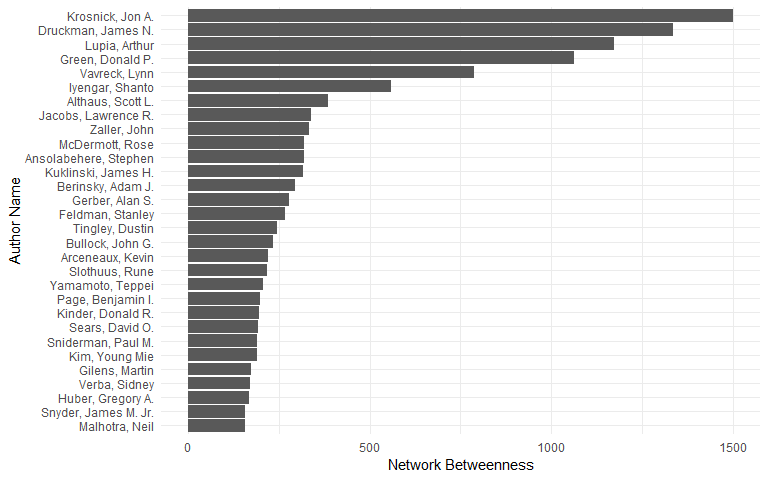
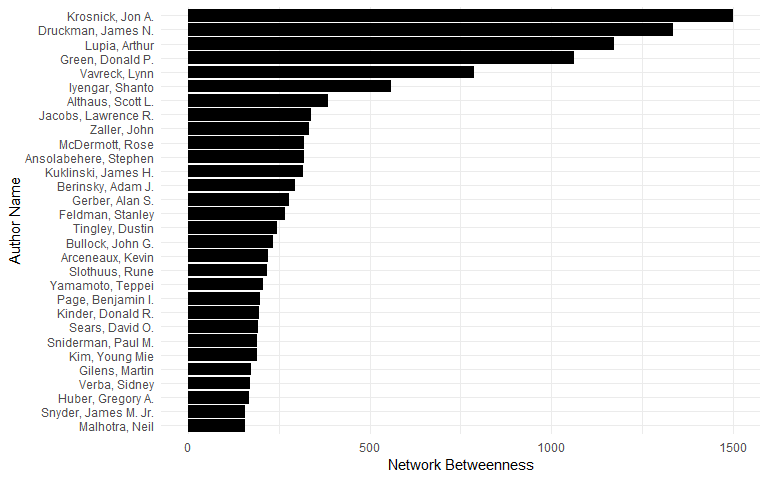
update README

Changed region(s): [[0.2188, 0.0, 0.9688, 0.9062]]

diff --git a/README.md b/README.md
@@ -1,12 +1,20 @@
 ``` r
+# knitr
 library("knitr")
+opts_chunk$set(fig.width=8, fig.height=5)
+
+# ggplot
 library("ggplot2")
+theme_set(theme_minimal())
+update_geom_defaults("bar", list(fill = "black"))
+update_geom_defaults("line", list(colour = "red"))
+update_geom_defaults("line", list(fill = "black", colour = "black"))
+
+# other packages
 requireNamespace("bib2df", quietly = TRUE)
 requireNamespace("igraph", quietly = TRUE)
 requireNamespace("gender", quietly = TRUE)
 requireNamespace("ggraph", quietly = TRUE)
-theme_set(theme_minimal())
-opts_chunk$set(fig.width=8, fig.height=5)
 ```
 
 License: Public Domain (CC-0)
@@ -84,13 +92,13 @@ ggplot(toppublishers, aes(x = PUBLISHER, y = CATEGORY)) +
 Authors
 -------
 
-Number of coauthors per publication:
+Number of coauthors per publication (excluding some recent extreme outliers):
 
 ``` r
 dat$nauthors <- lengths(dat$AUTHOR)
-ggplot(dat[!is.na(dat$YEAR) & dat$YEAR > 1900, ], aes(x = YEAR, y = nauthors)) + 
-  geom_point() + 
-  geom_smooth(method = "gam") + 
+ggplot(dat[!is.na(dat$YEAR) & dat$YEAR > 1900 & dat$nauthors < 40, ], aes(x = YEAR, y = nauthors)) + 
+  geom_point(alpha=0.1, fill="black", colour="black") + 
+  geom_smooth(method = "gam", colour = "red") + 
   xlab("Publication Year") + 
   ylab("Coauthors per Publication")
 ```
@@ -112,6 +120,29 @@ ggplot(topaut[1:50, ], aes(x = aut, y = Freq)) +
 
 ![](README_files/figure-markdown_github/authors-1.png)
 
+Gender of authors:
+
+``` r
+author_vec <- unique(as.character(unlist(dat$AUTHOR)))
+first_names <- regmatches(
+  author_vec,
+  regexec("(?<=, )[A-Za-z]+(?=[. ]{1})", author_vec, perl = TRUE)
+)
+g <- gender::gender(unlist(first_names))[, "gender", drop = FALSE]
+ggplot(g, aes(x = "", fill = gender)) +
+  geom_bar(aes(y = (..count..)/sum(..count..)), width = 1, position = "dodge") + 
+  scale_fill_manual(limits = c("male", "female"), values = c("gray", "black")) +
+  scale_y_continuous(breaks = seq(0,1,by=0.1), labels = scales::percent) +
+  coord_flip() +
+  xlab("") +
+  ylab("") +
+  theme(legend.position = "bottom")
+```
+
+![](README_files/figure-markdown_github/authorgender-1.png)
+
+Caveat: The above is based upon [the gender package](https://cran.r-project.org/package=gender), which classifies first names based upon historical data. This is not necessarily accurate and is restricted to a binary classification. It also uses all historical data provided in the package and is based only on United States data, making it possibly inaccurate for any given individual in the dataset.
+
 Coauthorship
 ------------
 
@@ -127,12 +158,6 @@ codat$N <- 1L
 topco <- aggregate(N ~ X1 + X2, data = codat[codat$X1 %in% topaut$aut & codat$X2 %in% topaut$aut, ], FUN = sum)
 cograph <- igraph::graph_from_data_frame(topco, directed = FALSE)
 
-## d3
-#networkD3::simpleNetwork(topco)
-#d3 <- networkD3::igraph_to_networkD3(cograph)
-#d3$nodes$group <- 1L
-#networkD3::forceNetwork(Links = d3$links, Nodes = d3$nodes, NodeID = "name", Group = "group")
-
 ## ggraph
 ggraph::ggraph(cograph, "igraph", algorithm = "nicely") + 
   ggraph::geom_edge_link(aes(edge_width = log(N)), colour = "gray") + 
@@ -141,6 +166,15 @@ ggraph::ggraph(cograph, "igraph", algorithm = "nicely") +
 ```
 
 ![](README_files/figure-markdown_github/authornetwork-1.png)
+
+Another, more interactive way of doing this might be:
+
+``` r
+networkD3::simpleNetwork(topco)
+d3 <- networkD3::igraph_to_networkD3(cograph)
+d3$nodes$group <- 1L
+networkD3::forceNetwork(Links = d3$links, Nodes = d3$nodes, NodeID = "name", Group = "group")
+```
 
 Betweenness centrality of top 25 authors:
 
@@ -180,7 +214,7 @@ Proportion missing data, by field, for articles:
 articles <- dat[dat$CATEGORY == "ARTICLE", c("AUTHOR", "TITLE", "JOURNAL", "YEAR", "VOLUME", "NUMBER", "PAGES", "ABSTRACT", "DOI")]
 articles <- cbind.data.frame(FIELD = names(articles), MISSINGNESS = unlist(lapply(articles, function(x) sum(is.na(x) == TRUE)/length(x))))
 ggplot(articles, aes(x = FIELD, y = MISSINGNESS)) +
-  geom_bar(stat = "identity") + 
+  geom_bar(stat = "identity", fill = "darkgray") + 
   ylab("Proportion Missing") + 
   ylim(c(0,1)) +
   xlab("") + 
@@ -195,7 +229,7 @@ Proportion missing data, by field, for books:
 books <- dat[dat$CATEGORY == "BOOK", c("AUTHOR", "EDITOR", "TITLE", "PUBLISHER", "YEAR", "ADDRESS", "ISBN")]
 books <- cbind.data.frame(FIELD = names(books), MISSINGNESS = unlist(lapply(books, function(x) sum(is.na(x) == TRUE)/length(x))))
 ggplot(books, aes(x = FIELD, y = MISSINGNESS)) +
-  geom_bar(stat = "identity") + 
+  geom_bar(stat = "identity", fill = "darkgray") + 
   ylab("Proportion Missing") + 
   ylim(c(0,1)) +
   xlab("") + 
